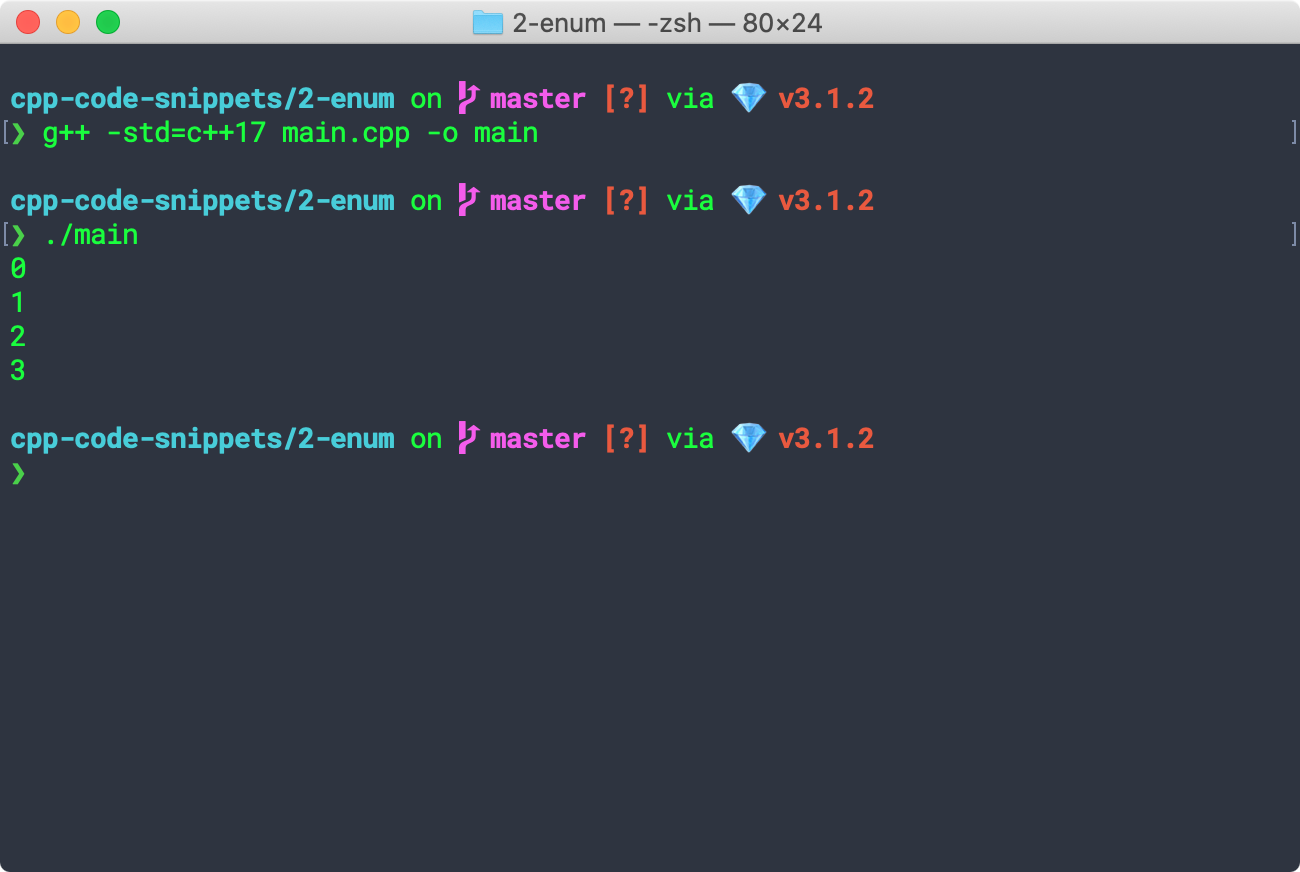
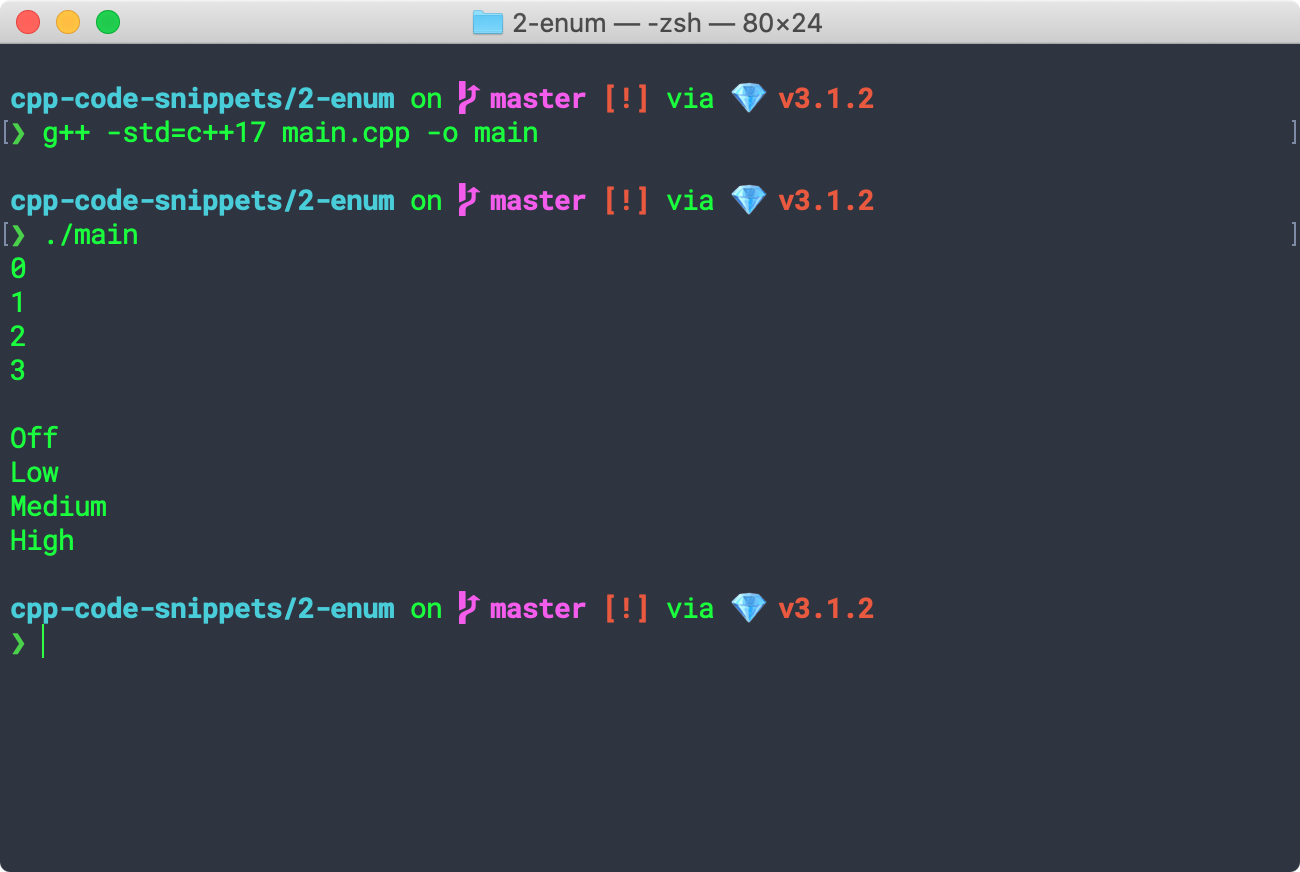
enum update

diff --git a/2-enum/main.cpp b/2-enum/main.cpp
@@ -1,10 +1,18 @@
 #include <iostream>
+#include <string>
 
 enum LightState {
     Off,
     Low,
     Medium,
     High
+};
+
+std::string LightStateString[4] = {
+    "Off",
+    "Low",
+    "Medium",
+    "High"
 };
 
 int main() {
@@ -17,6 +25,13 @@ int main() {
     std::cout << LightLow << std::endl;
     std::cout << LightMedium << std::endl;
     std::cout << LightHigh << std::endl;
+
+    std::cout << std::endl;
+
+    std::cout << LightStateString[LightOff] << std::endl;
+    std::cout << LightStateString[LightLow] << std::endl;
+    std::cout << LightStateString[LightMedium] << std::endl;
+    std::cout << LightStateString[LightHigh] << std::endl;
 
     return EXIT_SUCCESS;
 }
